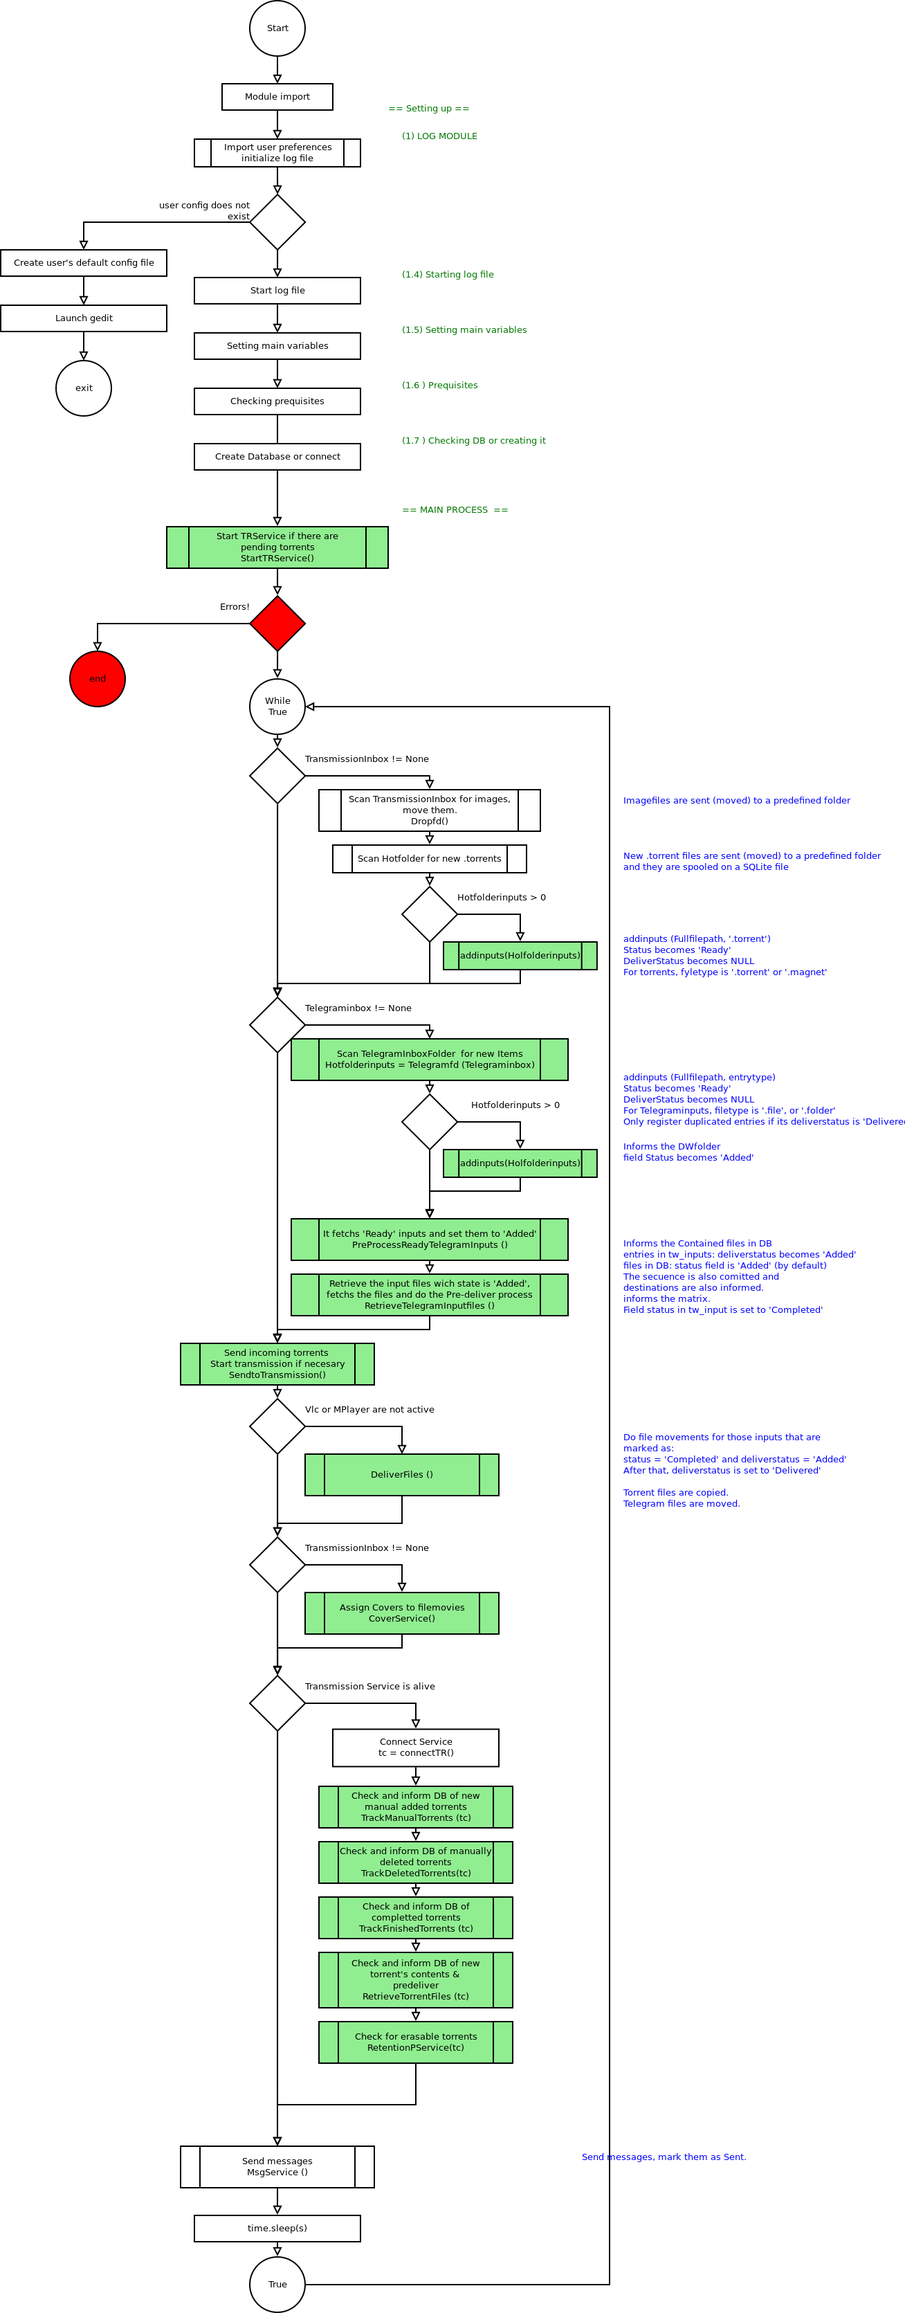
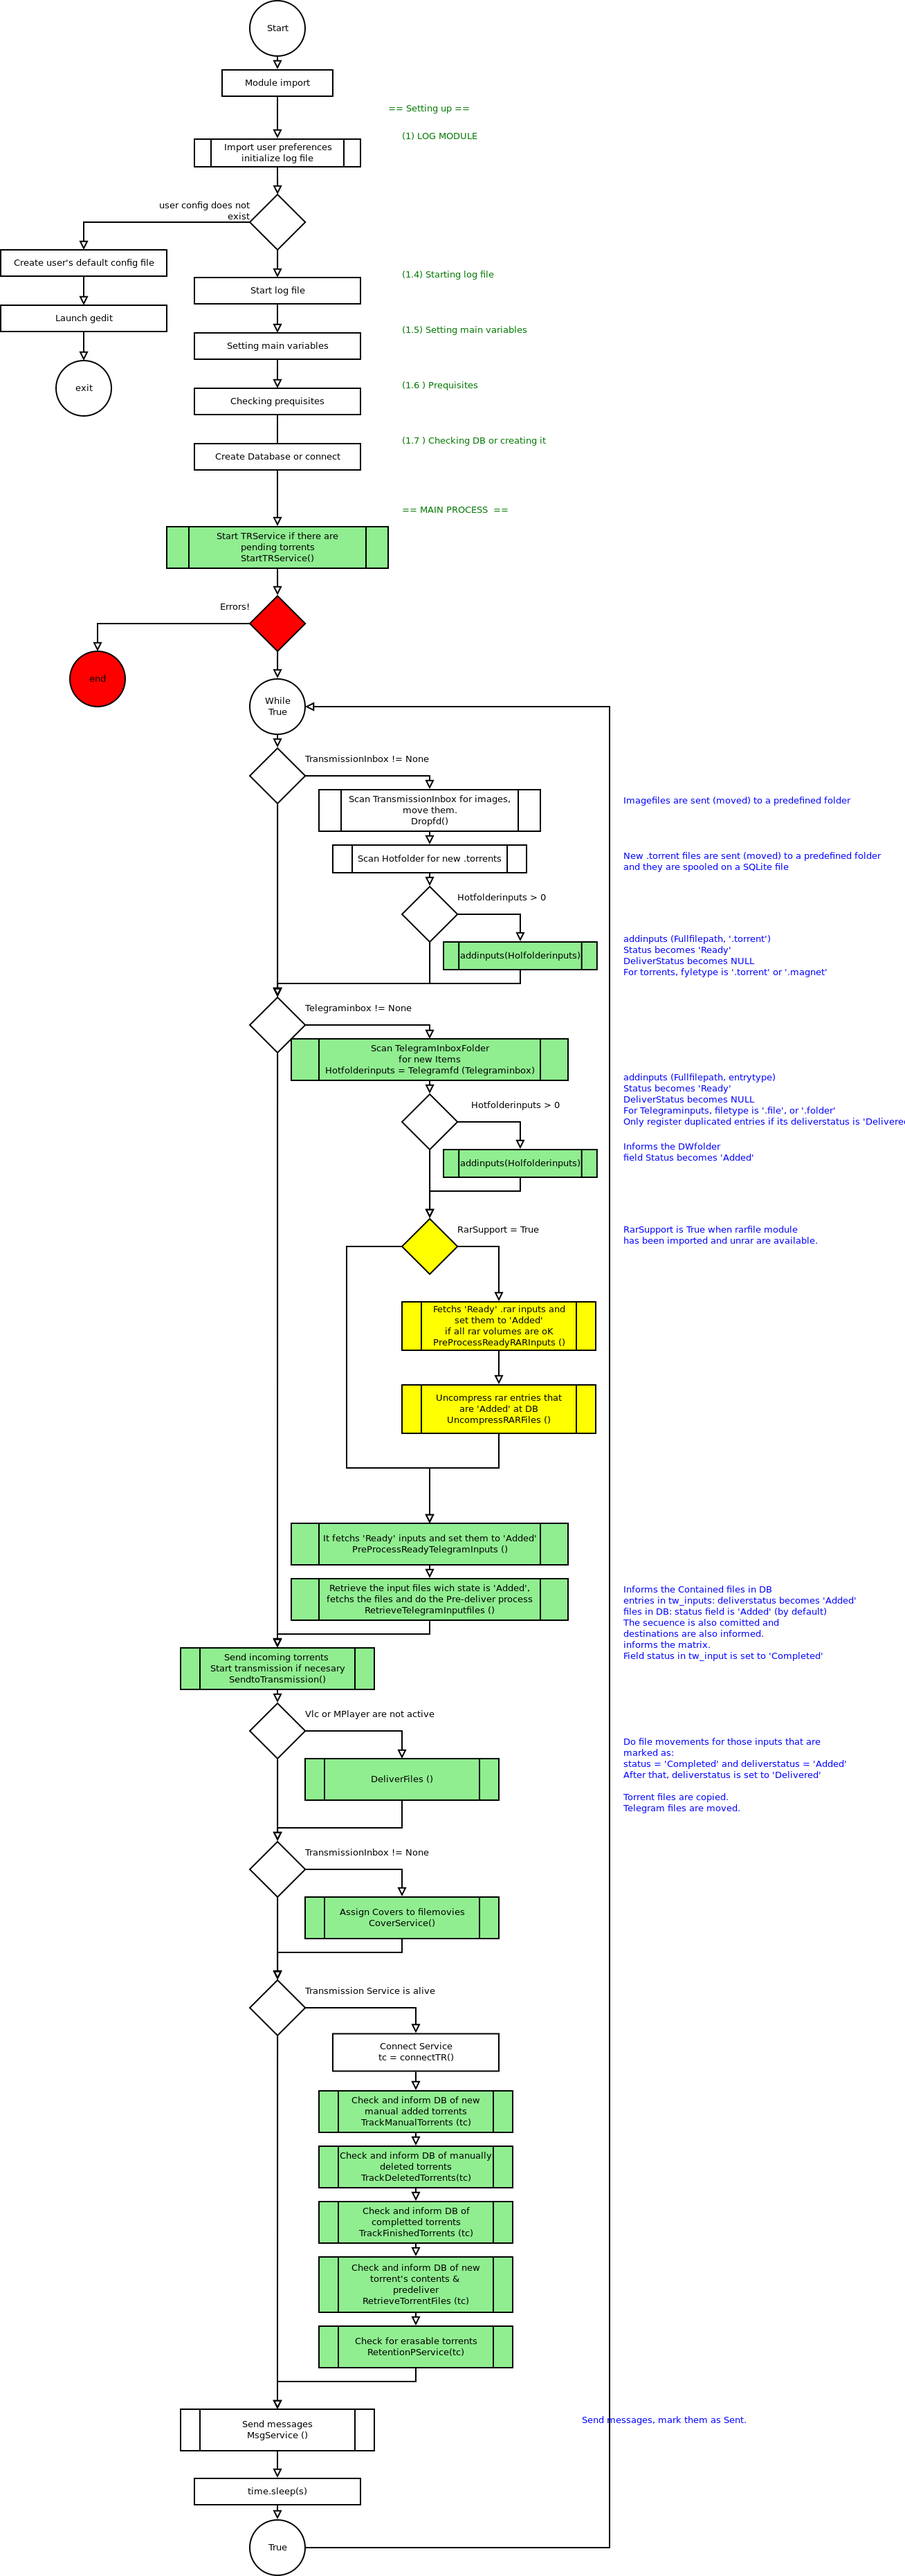
Diagramming PreProcess of Rar files

diff --git a/Gideon.py b/Gideon.py
@@ -42,11 +42,12 @@ except:
 	RarSupport = False
 else:
 	if rarfile.UNRAR_TOOL == False:
+		logging.warning ('No unrar tool available. RarSupport is unavailable')
+		print ('No unrar tool is found. Please install unrar. I will not process Rar files.')
 		RarSupport = False
 	else:
 		logging.info ('RarSupport is active.')
-		print ('Rar support is active')
-		RarSupport == True
+		RarSupport = True
 
 
 
@@ -2146,7 +2147,7 @@ def Telegramfd (Tfolder):
 		It will treat folders and files as inputs.
 		compressed files will be ignored, as they sometimes are multifile and have passwords.
 		"""
-	Itemlist = []
+	Itemlist = list()
 	filelist = [os.path.join(Tfolder,i) for i in os.listdir(Tfolder)]
 	for entry in filelist:
 		entrytype = None
